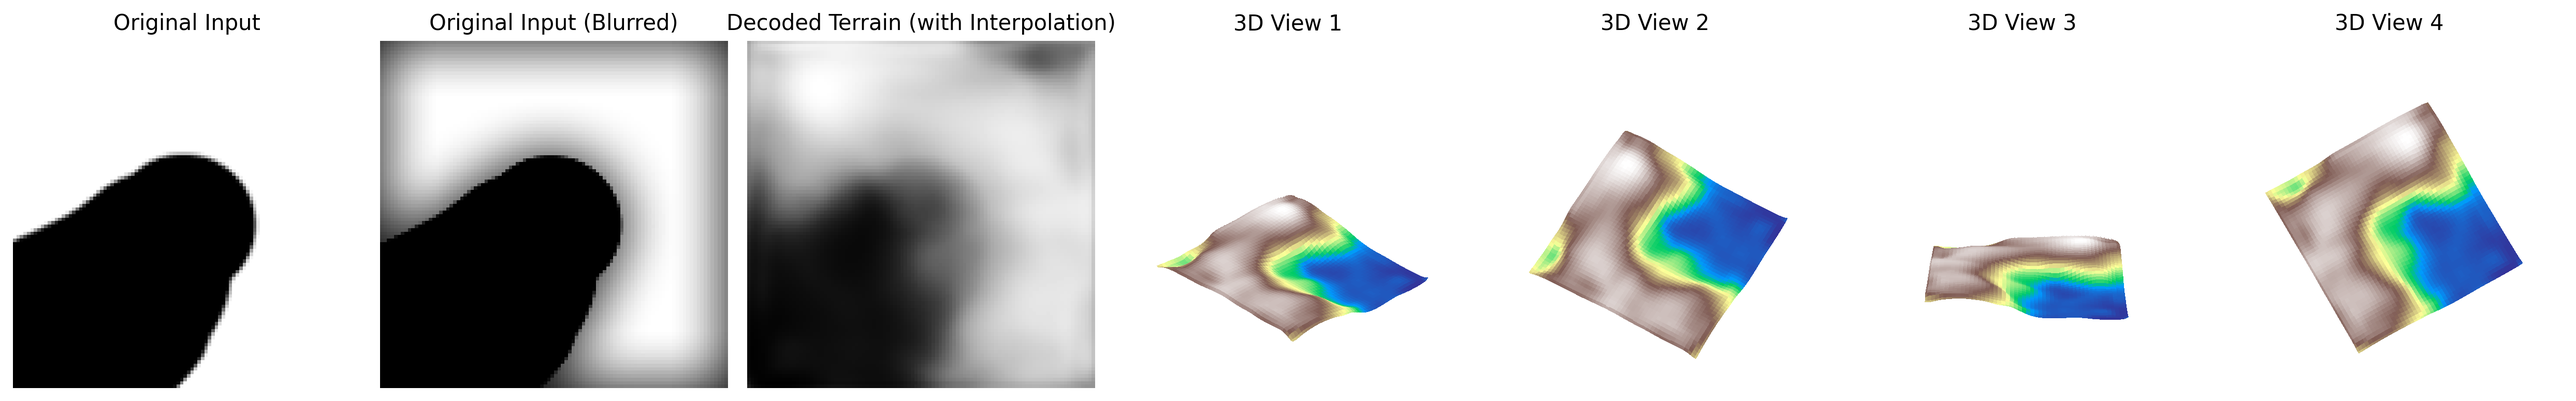
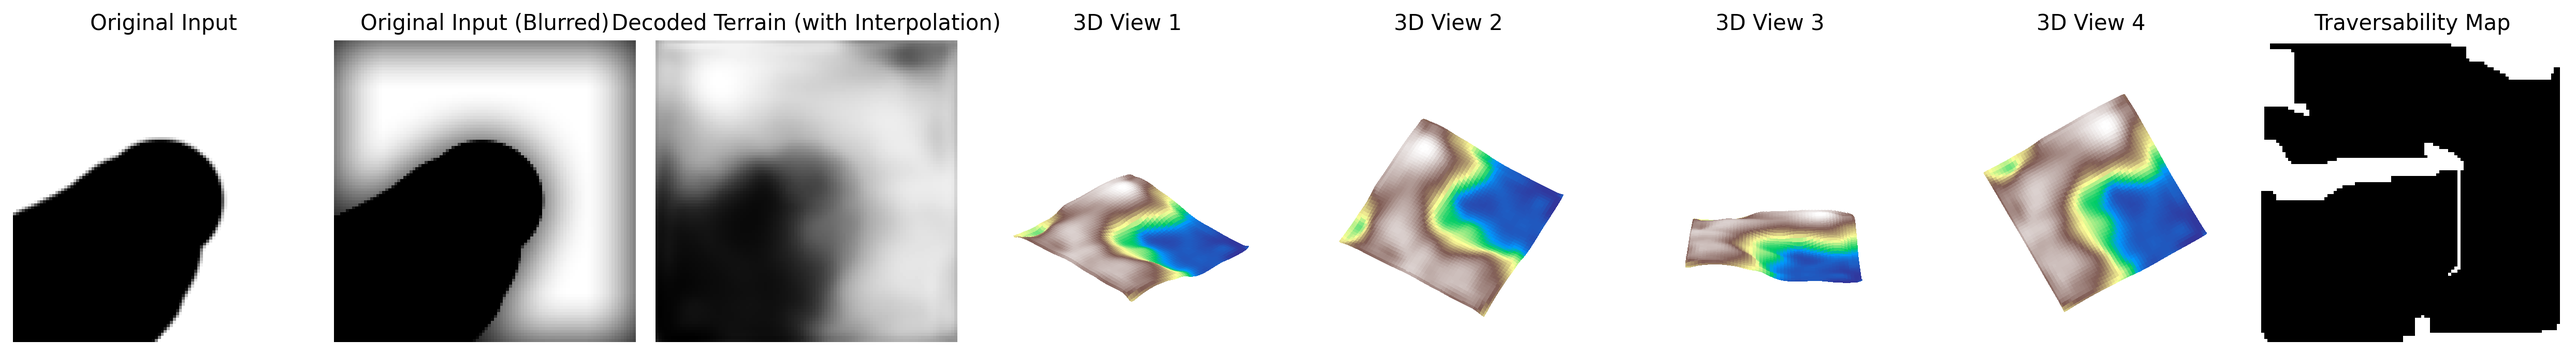
some traversability map computation

diff --git a/usage.py b/usage.py
@@ -8,6 +8,7 @@ from main import hpcfg
 from PIL import Image
 import os
 from classify_terrain_tensor import count_features_by_class, classify_terrain_tensor, terrain_counts_tensor
+from queue import Queue
 
 
 def gaussian_kernel(size: int, sigma: float):
@@ -34,7 +35,7 @@ model.load_state_dict(checkpoint["model_state_dict"])
 model.eval()
 
 # Load one input image from inputs/
-img_path = "example5.png"
+img_path = "example2.png"
 img = Image.open(os.path.join("inputs", img_path)).convert("L").resize((hpcfg.img_size, hpcfg.img_size))
 x = torch.tensor(np.array(img), dtype=torch.float32).unsqueeze(0).unsqueeze(0) / 255.0
 x_orig = x.clone()  # save copy
@@ -62,6 +63,40 @@ recon_t = recon.unsqueeze(0).unsqueeze(0).cpu()
 # Interpolate between blurred input and reconstruction
 recon_mix = torch.lerp(x_blur, recon_t, 0.95).squeeze().cpu().numpy()
 
+# Now compute traversability map using BFS with a threshold
+def compute_traversable(grid, thresh=0.015):
+    """
+    grid: 2D torch tensor, values in [0,1]
+    thresh: threshold for reachability
+    returns: 2D torch tensor, 0.0 reachable, 1.0 unreachable
+    """
+    H, W = grid.shape
+    visited = torch.ones_like(grid)  # initialize all unreachable
+    min_val = grid.min()
+    roots = torch.nonzero(grid == min_val) # lowest points as roots
+
+    q = Queue()
+    for r in roots:
+        r = tuple(r.tolist())
+        q.put(r)
+        visited[r] = 0.0  # mark as reachable
+
+    # 4-connectivity (up, down, left, right)
+    dirs = [(-1,0),(1,0),(0,-1),(0,1)]
+
+    while not q.empty():
+        y, x = q.get()
+        for dy, dx in dirs:
+            ny, nx = y+dy, x+dx
+            if 0 <= ny < H and 0 <= nx < W:
+                if visited[ny, nx] == 1.0 and abs(grid[ny, nx] - grid[y, x]) <= thresh:
+                    visited[ny, nx] = 0.0
+                    q.put((ny, nx))
+
+    return visited
+
+traversable_map = compute_traversable(torch.tensor(recon_mix, dtype=torch.float32))
+
 # Scale 3D heights
 recon_scaled = recon_mix * 0.2
 
@@ -69,18 +104,18 @@ recon_scaled = recon_mix * 0.2
 fig = plt.figure(figsize=(20, 5))
 
 # 2D original
-ax0 = fig.add_subplot(1, 7, 1)
+ax0 = fig.add_subplot(1, 8, 1)
 ax0.imshow(x_orig.cpu().squeeze().numpy(), cmap='gray')
 ax0.set_title("Original Input")
 ax0.axis('off')
 
-ax1 = fig.add_subplot(1, 7, 2)
+ax1 = fig.add_subplot(1, 8, 2)
 ax1.imshow(x.cpu().squeeze().numpy(), cmap='gray')
 ax1.set_title("Original Input (Blurred)")
 ax1.axis('off')
 
 # 2D reconstructed
-ax2 = fig.add_subplot(1, 7, 3)
+ax2 = fig.add_subplot(1, 8, 3)
 ax2.imshow(recon_mix, cmap='gray')
 ax2.set_title("Decoded Terrain (with Interpolation)")
 ax2.axis('off')
@@ -88,7 +123,7 @@ ax2.axis('off')
 # 3D views at different angles
 angles = [(30, 45), (60, 30), (15, 90), (75, 60)]
 for i, (elev, azim) in enumerate(angles):
-    ax = fig.add_subplot(1, 7, i + 4, projection='3d')
+    ax = fig.add_subplot(1, 8, i + 4, projection='3d')
     h, w = recon_scaled.shape
     X, Y = np.meshgrid(np.arange(w), np.arange(h))
     ax.plot_surface(X, Y, recon_scaled, cmap='terrain', linewidth=0, antialiased=False)
@@ -96,6 +131,12 @@ for i, (elev, azim) in enumerate(angles):
     ax.set_title(f"3D View {i+1}")
     ax.set_zlim(0, 1)
     ax.set_axis_off()
+
+# 2D traversability map
+axt = fig.add_subplot(1, 8, 8)
+axt.imshow(traversable_map, cmap='gray')
+axt.set_title("Traversability Map")
+axt.axis('off')
 
 plt.tight_layout()
 
